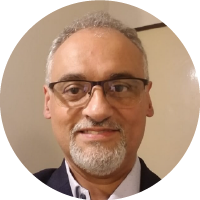
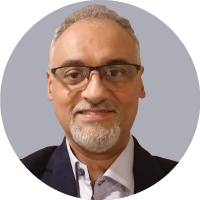
Fotos Team

diff --git a/index.html b/index.html
@@ -350,31 +350,29 @@
                     </div>
                 </div>
             </div>
-
         </div>
     </div>
     </div>
     <!--------------------------------/EQUIPO DE EXPERTOS --------------------------------->
-
-    <div  class="jumbotron jumbotron-fluid">
-    <div class="container">
-        <div class="row">
-            <div class="col-md-auto">
-              <i class="fa fa-chevron-right" id="home-cta"></i>
-            </div>
-            <div class="col-sm">
-                <h3>Equipo de Expertos</h3>
-                <p>TAHO cuenta con un equipo de consultores expertos (locales e internacionales),
+    <div class="jumbotron jumbotron-fluid">
+        <div class="container">
+            <div class="row">
+                <div class="col-md-auto">
+                    <i class="fa fa-chevron-right" id="home-cta"></i>
+                </div>
+                <div class="col-sm">
+                    <h3>Equipo de Expertos</h3>
+                    <p>TAHO cuenta con un equipo de consultores expertos (locales e internacionales),
                         con amplia experiencia<br> en numerosas áreas e industrias dentro de organizaciones nacionales y multinacionales.</p>
-            </div>
-            <div class="col-md-auto">
-                <p class="lead">
-                    <a href="about.html" class="boxed-btn">Conozca TAHO</a>
-                </p>
+                </div>
+                <div class="col-md-auto">
+                    <p class="lead">
+                        <a href="about.html" class="boxed-btn">Conozca TAHO</a>
+                    </p>
+                </div>
             </div>
         </div>
     </div>
-</div>
     <!----------------------------------------SLIDER LOGOS--------------------------------------->
     <div class="container margin-slider mt-80">
         <div class="row">
@@ -495,8 +493,6 @@
                 </div>
             </div>
             <div class="row">
-
-
                 <div class="col-lg-4 col-md-6">
                     <div class="single_study text-center white_single_study">
                         <div class="thumb">
@@ -507,14 +503,13 @@
                         <div class="subheading white_subheading">
                             <h4><a href="https://sites.google.com/archg.net/taho/p%C3%A1gina-principal" target="_blank">Cierre de la 6ta Edición<br> JAME
                                     JAPÓN 2019</a></h4><br>
-                                    <li><i class="fa fa-comments"></i> 2019</li>
+                            <li><i class="fa fa-comments"></i> 2019</li>
                             <p>JAME es una Experiencia única y Exclusiva.<br>
                                 Trascendente para el participante<br> y para la empresa</p>
                         </div>
                     </div>
                 </div>
-
-                                <div class="col-lg-4 col-md-6">
+                <div class="col-lg-4 col-md-6">
                     <div class="single_study text-center white_single_study">
                         <div class="thumb">
                             <a href="Case_details.html">
@@ -523,13 +518,12 @@
                         </div>
                         <div class="subheading white_subheading">
                             <h4><a href="https://www.facebook.com/pg/www.taho.com.ar/photos/?tab=album&album_id=850994441709768" target="_blank">El Sr. Tomohiko Taniguchi junto a TAHO<br> en el Hotel Hilton.</a></h4><br>
-                                    <li><i class="fa fa-comments"></i> 11/2017</li>
+                            <li><i class="fa fa-comments"></i> 11/2017</li>
                             <p>Conferencia y Clase Magistral exclusiva del Consejero Especial del gabinete del Primer Ministro de Japón </p>
                         </div>
                     </div>
                 </div>
-
-                                <div class="col-lg-4 col-md-6">
+                <div class="col-lg-4 col-md-6">
                     <div class="single_study text-center white_single_study">
                         <div class="thumb">
                             <a href="Case_details.html">
@@ -543,7 +537,6 @@
                         </div>
                     </div>
                 </div>
-
                 <div class="col-lg-4 col-md-6">
                     <div class="single_study text-center white_single_study">
                         <div class="thumb">
@@ -558,7 +551,7 @@
                         </div>
                     </div>
                 </div>
-                                <div class="col-lg-4 col-md-6">
+                <div class="col-lg-4 col-md-6">
                     <div class="single_study text-center white_single_study">
                         <div class="thumb">
                             <a href="Case_details.html">
@@ -572,8 +565,6 @@
                         </div>
                     </div>
                 </div>
-
-
                 <div class="col-lg-4 col-md-6">
                     <div class="single_study text-center white_single_study">
                         <div class="thumb">
@@ -588,17 +579,6 @@
                         </div>
                     </div>
                 </div>
-
-
-
-
-
-
-
-
-
-
-
             </div>
         </div>
     </div>

diff --git a/css/style.css b/css/style.css
@@ -1701,7 +1701,7 @@ h3 {
 }
 
 .team_2 {
-    background-image: url(../img/team/jorge-02.png)
+    background-image: url(../img/team/jorge.png)
 }
 
 .team_3 {
